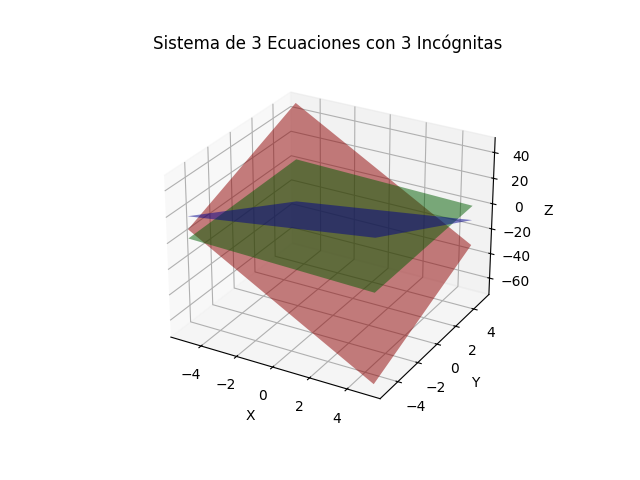
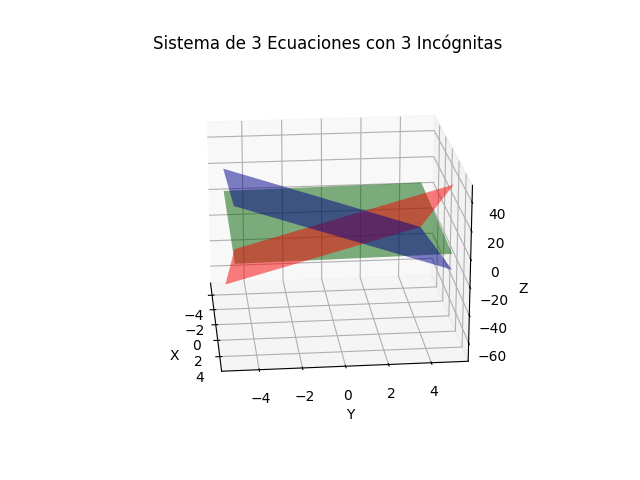
Update

diff --git a/Desafio4/grafica.py b/Desafio4/grafica.py
@@ -4,7 +4,7 @@ from mpl_toolkits.mplot3d import Axes3D
 
 # Definir las ecuaciones
 def eq1(x, y):
-    return (-11 - 8 * x + 4 * y)  # x3 = -11 - 8x1 + 4x2
+    return (-11 + 8 * x + 4 * y)  # x3 = -11 - 8x1 + 4x2
 
 def eq2(x, y):
     return (4 + 2 * x - 5 * y)  # x3 = 4 + 2x1 - 5x2

diff --git a/Desafio4/README.md b/Desafio4/README.md
@@ -16,21 +16,27 @@ date: "19-09-24"
 
 #### Captura de la solución en Octave con LU
 ```{octave}
-octave:1> A = [8, 4, 1; -2, 5, 1; 2, -1, 6]
+A = [8, 4, -1; -2, 5, 1; 2, -1, 6]
+b = [11; 4; 7]
+[L, U] = lu(A)
+d = inv(L)*b
+x = inv(U) * d
+```
+##### Salida en pantalla
+```{octave}
+
 A =
 
-   8   4   1
+   8   4  -1
   -2   5   1
    2  -1   6
 
-octave:2> b = [11; 4; 7]
 b =
 
    11
     4
     7
 
-octave:3> [L, U] = lu(a)
 L =
 
    1.0000        0        0
@@ -39,23 +45,21 @@ L =
 
 U =
 
-   8.0000   4.0000   1.0000
-        0   6.0000   1.2500
-        0        0   6.1667
+   8.0000   4.0000  -1.0000
+        0   6.0000   0.7500
+        0        0   6.5000
 
-octave:5> d = inv(L)*b
 d =
 
    11.0000
     6.7500
     6.5000
 
-octave:6> x = inv(U) * d
 x =
 
-   0.7905
-   0.9054
-   1.0541
+   1
+   1
+   1
 ```
 
 #### Gráfica en 3D Captura y Código en Python
@@ -68,7 +72,7 @@ from mpl_toolkits.mplot3d import Axes3D
 
 # Definir las ecuaciones
 def eq1(x, y):
-    return (-11 - 8 * x + 4 * y)  # x3 = -11 - 8x1 + 4x2
+    return (-11 + 8 * x + 4 * y)  # x3 = -11 - 8x1 + 4x2
 
 def eq2(x, y):
     return (4 + 2 * x - 5 * y)  # x3 = 4 + 2x1 - 5x2
